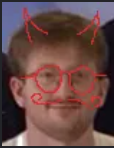
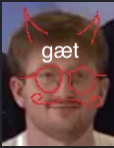
kevin knap

Changed region(s): [[0.3684, 0.2703, 0.7105, 0.4324]]

diff --git a/src/main/resources/templates/A07/stage1.html b/src/main/resources/templates/A07/stage1.html
@@ -18,8 +18,12 @@
     <p th:text="${correctAnswer}"></p> -->
     <p class="shown-word" th:text="${shownWord}"></p>
     <form class="form-guess" method="post">
-        <input type="text" name="letter" maxlength="1" placeholder="Indtast et bogstav"/>
-        <button type="submit" formaction="/A07/guessletter">Gæt</button>
+        <div class="container">
+            <input type="text" name="letter" maxlength="1" placeholder="Indtast et bogstav"/>
+
+            <button type="submit" formaction="/A07/guessletter"><div class="button-text">gæt</div><img class="button-image" src="../../public/images/A07/knapkevin.png" th:src="@{/images/A07/knapkevin.png}" width="20%"/></button>
+
+        </div>
     </form>
 </div>
 

diff --git a/src/main/resources/templates/A07/stage2.html b/src/main/resources/templates/A07/stage2.html
@@ -18,8 +18,12 @@
     <p th:text="${correctAnswer}"></p> -->
     <p class="shown-word" th:text="${shownWord}"></p>
     <form class="form-guess" method="post">
-        <input type="text" name="letter" maxlength="1" placeholder="Indtast et bogstav"/>
-        <button type="submit" formaction="/A07/guessletter">Gæt</button>
+        <div class="container">
+            <input type="text" name="letter" maxlength="1" placeholder="Indtast et bogstav"/>
+
+            <button type="submit" formaction="/A07/guessletter"><div class="button-text">gæt</div><img class="button-image" src="../../public/images/A07/knapkevin.png" th:src="@{/images/A07/knapkevin.png}" width="20%"/></button>
+
+        </div>
     </form>
 </div>
 

diff --git a/src/main/resources/templates/A07/stage3.html b/src/main/resources/templates/A07/stage3.html
@@ -18,8 +18,12 @@
     <p th:text="${correctAnswer}"></p> -->
     <p class="shown-word" th:text="${shownWord}"></p>
     <form class="form-guess" method="post">
-        <input type="text" name="letter" maxlength="1" placeholder="Indtast et bogstav"/>
-        <button type="submit" formaction="/A07/guessletter">Gæt</button>
+        <div class="container">
+            <input type="text" name="letter" maxlength="1" placeholder="Indtast et bogstav"/>
+
+            <button type="submit" formaction="/A07/guessletter"><div class="button-text">gæt</div><img class="button-image" src="../../public/images/A07/knapkevin.png" th:src="@{/images/A07/knapkevin.png}" width="20%"/></button>
+
+        </div>
     </form>
 </div>
 

diff --git a/src/main/resources/templates/A07/stage4.html b/src/main/resources/templates/A07/stage4.html
@@ -18,8 +18,12 @@
     <p th:text="${correctAnswer}"></p> -->
     <p class="shown-word" th:text="${shownWord}"></p>
     <form class="form-guess" method="post">
-        <input type="text" name="letter" maxlength="1" placeholder="Indtast et bogstav"/>
-        <button type="submit" formaction="/A07/guessletter">Gæt</button>
+        <div class="container">
+            <input type="text" name="letter" maxlength="1" placeholder="Indtast et bogstav"/>
+
+            <button type="submit" formaction="/A07/guessletter"><div class="button-text">gæt</div><img class="button-image" src="../../public/images/A07/knapkevin.png" th:src="@{/images/A07/knapkevin.png}" width="20%"/></button>
+
+        </div>
     </form>
 </div>
 

diff --git a/src/main/resources/templates/A07/stage5.html b/src/main/resources/templates/A07/stage5.html
@@ -18,8 +18,12 @@
     <p th:text="${correctAnswer}"></p> -->
     <p class="shown-word" th:text="${shownWord}"></p>
     <form class="form-guess" method="post">
-        <input type="text" name="letter" maxlength="1" placeholder="Indtast et bogstav"/>
-        <button type="submit" formaction="/A07/guessletter">Gæt</button>
+        <div class="container">
+            <input type="text" name="letter" maxlength="1" placeholder="Indtast et bogstav"/>
+
+            <button type="submit" formaction="/A07/guessletter"><div class="button-text">gæt</div><img class="button-image" src="../../public/images/A07/knapkevin.png" th:src="@{/images/A07/knapkevin.png}" width="20%"/></button>
+
+        </div>
     </form>
 </div>
 

diff --git a/src/main/resources/templates/A07/stage6.html b/src/main/resources/templates/A07/stage6.html
@@ -18,8 +18,12 @@
     <p th:text="${correctAnswer}"></p> -->
     <p class="shown-word" th:text="${shownWord}"></p>
     <form class="form-guess" method="post">
-        <input type="text" name="letter" maxlength="1" placeholder="Indtast et bogstav"/>
-        <button type="submit" formaction="/A07/guessletter">Gæt</button>
+        <div class="container">
+            <input type="text" name="letter" maxlength="1" placeholder="Indtast et bogstav"/>
+
+            <button type="submit" formaction="/A07/guessletter"><div class="button-text">gæt</div><img class="button-image" src="../../public/images/A07/knapkevin.png" th:src="@{/images/A07/knapkevin.png}" width="20%"/></button>
+
+        </div>
     </form>
 </div>
 

diff --git a/src/main/resources/templates/A07/stage7.html b/src/main/resources/templates/A07/stage7.html
@@ -18,8 +18,12 @@
     <p th:text="${correctAnswer}"></p> -->
     <p class="shown-word" th:text="${shownWord}"></p>
     <form class="form-guess" method="post">
-        <input type="text" name="letter" maxlength="1" placeholder="Indtast et bogstav"/>
-        <button type="submit" formaction="/A07/guessletter">Gæt</button>
+        <div class="container">
+            <input type="text" name="letter" maxlength="1" placeholder="Indtast et bogstav"/>
+
+            <button type="submit" formaction="/A07/guessletter"><div class="button-text">gæt</div><img class="button-image" src="../../public/images/A07/knapkevin.png" th:src="@{/images/A07/knapkevin.png}" width="20%"/></button>
+
+        </div>
     </form>
 </div>
 

diff --git a/src/main/resources/templates/A07/stage8.html b/src/main/resources/templates/A07/stage8.html
@@ -18,8 +18,12 @@
     <p th:text="${correctAnswer}"></p> -->
     <p class="shown-word" th:text="${shownWord}"></p>
     <form class="form-guess" method="post">
-        <input type="text" name="letter" maxlength="1" placeholder="Indtast et bogstav"/>
-        <button type="submit" formaction="/A07/guessletter">Gæt</button>
+        <div class="container">
+            <input type="text" name="letter" maxlength="1" placeholder="Indtast et bogstav"/>
+
+            <button type="submit" formaction="/A07/guessletter"><div class="button-text">gæt</div><img class="button-image" src="../../public/images/A07/knapkevin.png" th:src="@{/images/A07/knapkevin.png}" width="20%"/></button>
+
+        </div>
     </form>
 </div>
 

diff --git a/src/main/resources/templates/A07/stage9.html b/src/main/resources/templates/A07/stage9.html
@@ -18,8 +18,12 @@
     <p th:text="${correctAnswer}"></p> -->
     <p class="shown-word" th:text="${shownWord}"></p>
     <form class="form-guess" method="post">
-        <input type="text" name="letter" maxlength="1" placeholder="Indtast et bogstav"/>
-        <button type="submit" formaction="/A07/guessletter">Gæt</button>
+        <div class="container">
+            <input type="text" name="letter" maxlength="1" placeholder="Indtast et bogstav"/>
+
+            <button type="submit" formaction="/A07/guessletter"><div class="button-text">gæt</div><img class="button-image" src="../../public/images/A07/knapkevin.png" th:src="@{/images/A07/knapkevin.png}" width="20%"/></button>
+
+        </div>
     </form>
 </div>
 

diff --git a/src/main/resources/templates/A07/stage0.html b/src/main/resources/templates/A07/stage0.html
@@ -20,8 +20,12 @@
     <p th:text="${correctAnswer}"></p> -->
     <p class="shown-word" th:text="${shownWord}"></p>
     <form class="form-guess" method="post">
+        <div class="container">
         <input type="text" name="letter" maxlength="1" placeholder="Indtast et bogstav"/>
-        <button type="submit" formaction="/A07/guessletter">Gæt</button>
+
+            <button type="submit" formaction="/A07/guessletter"><div class="button-text">gæt</div><img class="button-image" src="../../public/images/A07/knapkevin.png" th:src="@{/images/A07/knapkevin.png}" width="20%"/></button>
+
+        </div>
     </form>
 </div>
 

diff --git a/src/main/resources/public/css/A07.css b/src/main/resources/public/css/A07.css
@@ -42,7 +42,7 @@ container {
 
 .button-text {
     position: absolute;
-    top: 35%;
+    top: 50%;
     left: 50%;
     transform: translate(-50%, -50%);
     color: white;
